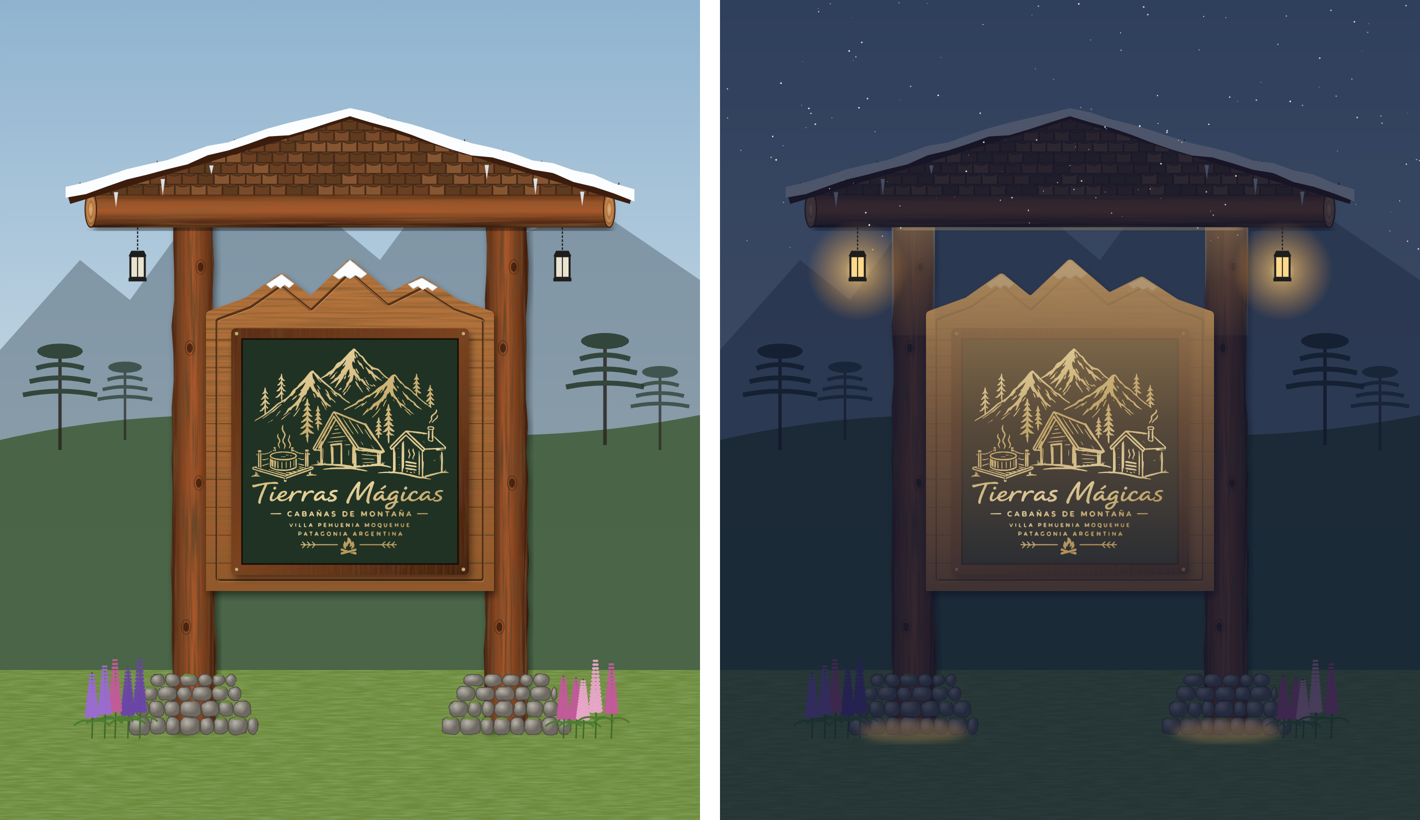
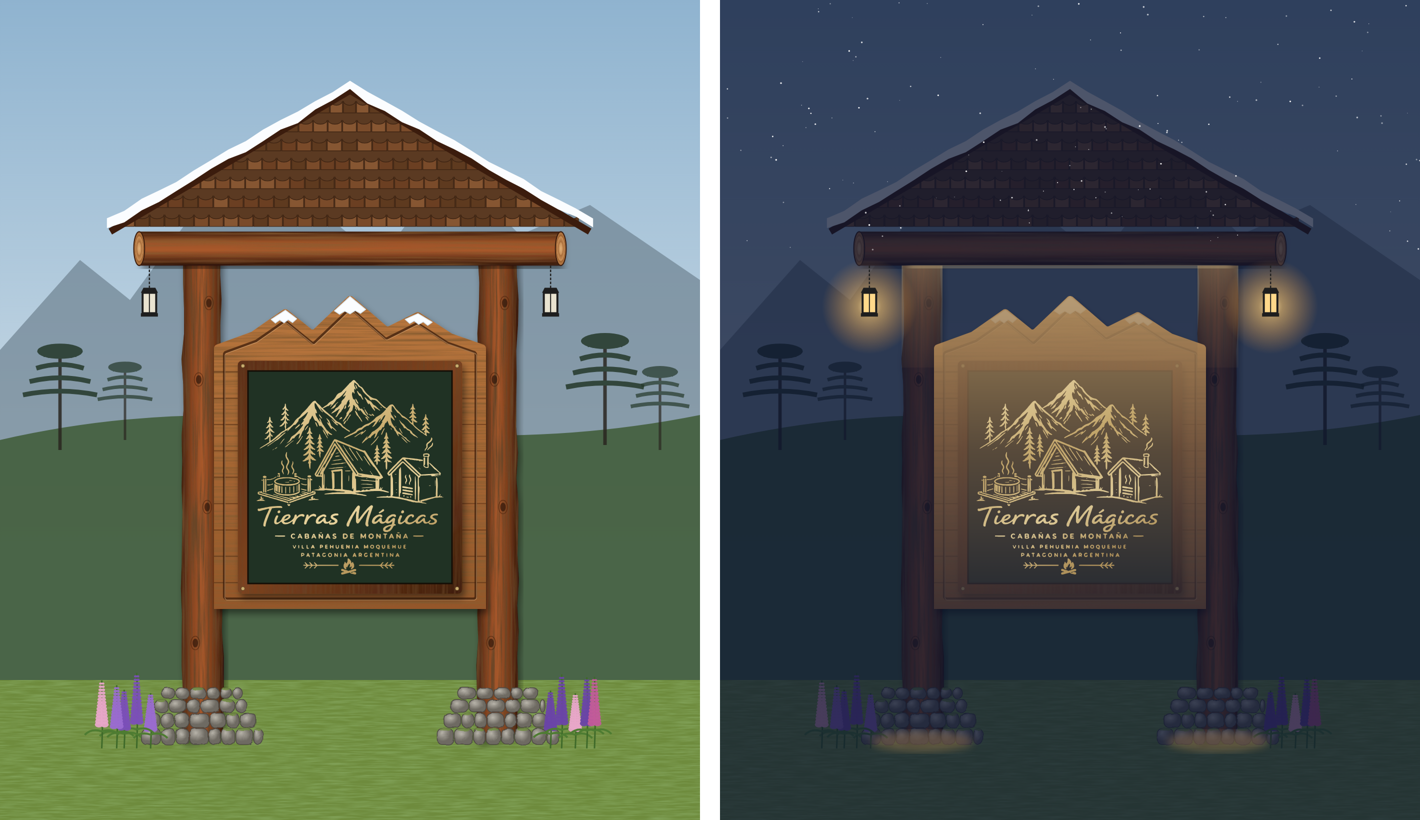
Cartel v2: plano con techo 30°, viga dintel y pirca (frente y lateral); maquetas ajustadas a 30°
Claude-Session: https://claude.ai/code/session_01JmsTv2schWfd3dyEYrJaJk

diff --git a/marca/cartel-entrada/propuesta-v2/MEJORAS.md b/marca/cartel-entrada/propuesta-v2/MEJORAS.md
@@ -4,7 +4,7 @@ Mejoras sobre la versión de troncos. Cada una suma algo funcional y algo visual
 
 | # | Mejora | Qué aporta | Prioridad |
 |---|---|---|---|
-| 1 | **Techito a dos aguas con tejuelas** sobre una viga dintel de tronco | Protege la placa y el vinilo de la nieve y del sol, y alarga mucho su vida útil. Le da la imagen de "portal de montaña" y aumenta la presencia desde la ruta. | Alta |
+| 1 | **Techito a dos aguas de 30° con tejuelas** sobre una viga dintel de tronco | Protege la placa y el vinilo de la nieve y del sol, y alarga mucho su vida útil. Le da la imagen de "portal de montaña" y aumenta la presencia desde la ruta. | Alta |
 | 2 | **Nieve pintada en los picos** del panel (blanco esmalte exterior) | Repite las montañas nevadas del logo. Es el detalle que más llama la atención y casi no tiene costo. | Alta |
 | 3 | **Iluminación nocturna**: un listón LED cálido (2700–3000 K, IP65) bajo la viga apuntando al panel, más 2 farolitos colgantes en los extremos | El cartel también "trabaja" de noche, cuando llegan muchos huéspedes. El dorado metalizado brilla con luz rasante. | Alta |
 | 4 | **Pirca de piedra** en la base de cada poste | Aleja la madera de la humedad y de la nieve del suelo, y le da al cartel una base sólida y natural. | Media |
@@ -13,11 +13,19 @@ Mejoras sobre la versión de troncos. Cada una suma algo funcional y algo visual
 | 7 | **Panel en tono miel** (ciprés con barniz claro), más claro que los postes | El contraste panel claro / postes oscuros / placa verde ordena la lectura visual y el logo resalta. | Media |
 | 8 | **Lupinos** (o plantas nativas) al pie del cartel | Color de temporada típico de la Patagonia y una foto "instagrameable" en la entrada. | Baja |
 
-## Impacto en el diseño técnico
-- La altura total sube a unos **3,4 m** con el techo. Los postes llegan a la viga (2,82 m) y el techo sobresale unos 40 cm a cada lado.
-- El techo debe calcularse para **carga de nieve**: pendiente de 30° o más, estructura atornillada y la viga apoyada en un rebaje encima de los postes.
-- La iluminación necesita alimentación eléctrica en la entrada: canalización enterrada, fotocélula o timer, y protección diferencial.
-- El panel, la placa y los archivos CNC y de corte **no cambian**.
+## Diseño técnico (ver `plano-v2-techo-viga-pirca.pdf`)
+| Elemento | Medida |
+|---|---|
+| Altura total (cumbrera) | **3,83 m** |
+| Techo | A dos aguas con **30° de pendiente** (por la nieve), 2,70 m de ancho × 0,70 m de profundidad, con 30 cm de vuelo delante de la placa. Alero a 3,05 m. |
+| Viga dintel | Tronco de Ø20 × 2,48 m, apoyado en un rebaje en la punta de los postes y fijado con varilla roscada galvanizada de Ø12. Parte inferior a 2,82 m. |
+| Postes | Ø24, de 3,67 m de largo: 2,87 m sobre el suelo + 0,80 m enterrados en un dado de hormigón de 50 × 50 × 90 cm. Distancia entre ejes: 1,74 m. |
+| Pirca | Piedra de la zona: 72 × 60 cm en la base, 48 × 44 cm arriba y 34 cm de alto, con la terminación en pendiente hacia afuera. |
+| Iluminación | Listón LED cálido IP65 bajo la viga + 2 faroles IP65 · cable enterrado en caño · fotocélula o timer · disyuntor diferencial. |
+
+- **El techo tiene que soportar la carga de nieve:** cabriadas de 2"×4", entablonado de 1", membrana hidrófuga y tejuelas de ciprés. Conviene que el carpintero o un técnico confirme las secciones según la nieve que cae en el lugar.
+- La iluminación la tiene que instalar un **electricista matriculado**.
+- El panel, la placa y los archivos de CNC y de corte **no cambian**.
 
 ## Opcional (sin agregar textos)
 - Grabar con CNC un pequeño **fogón** o una **araucaria** en los extremos de la viga, como sello de marca.
